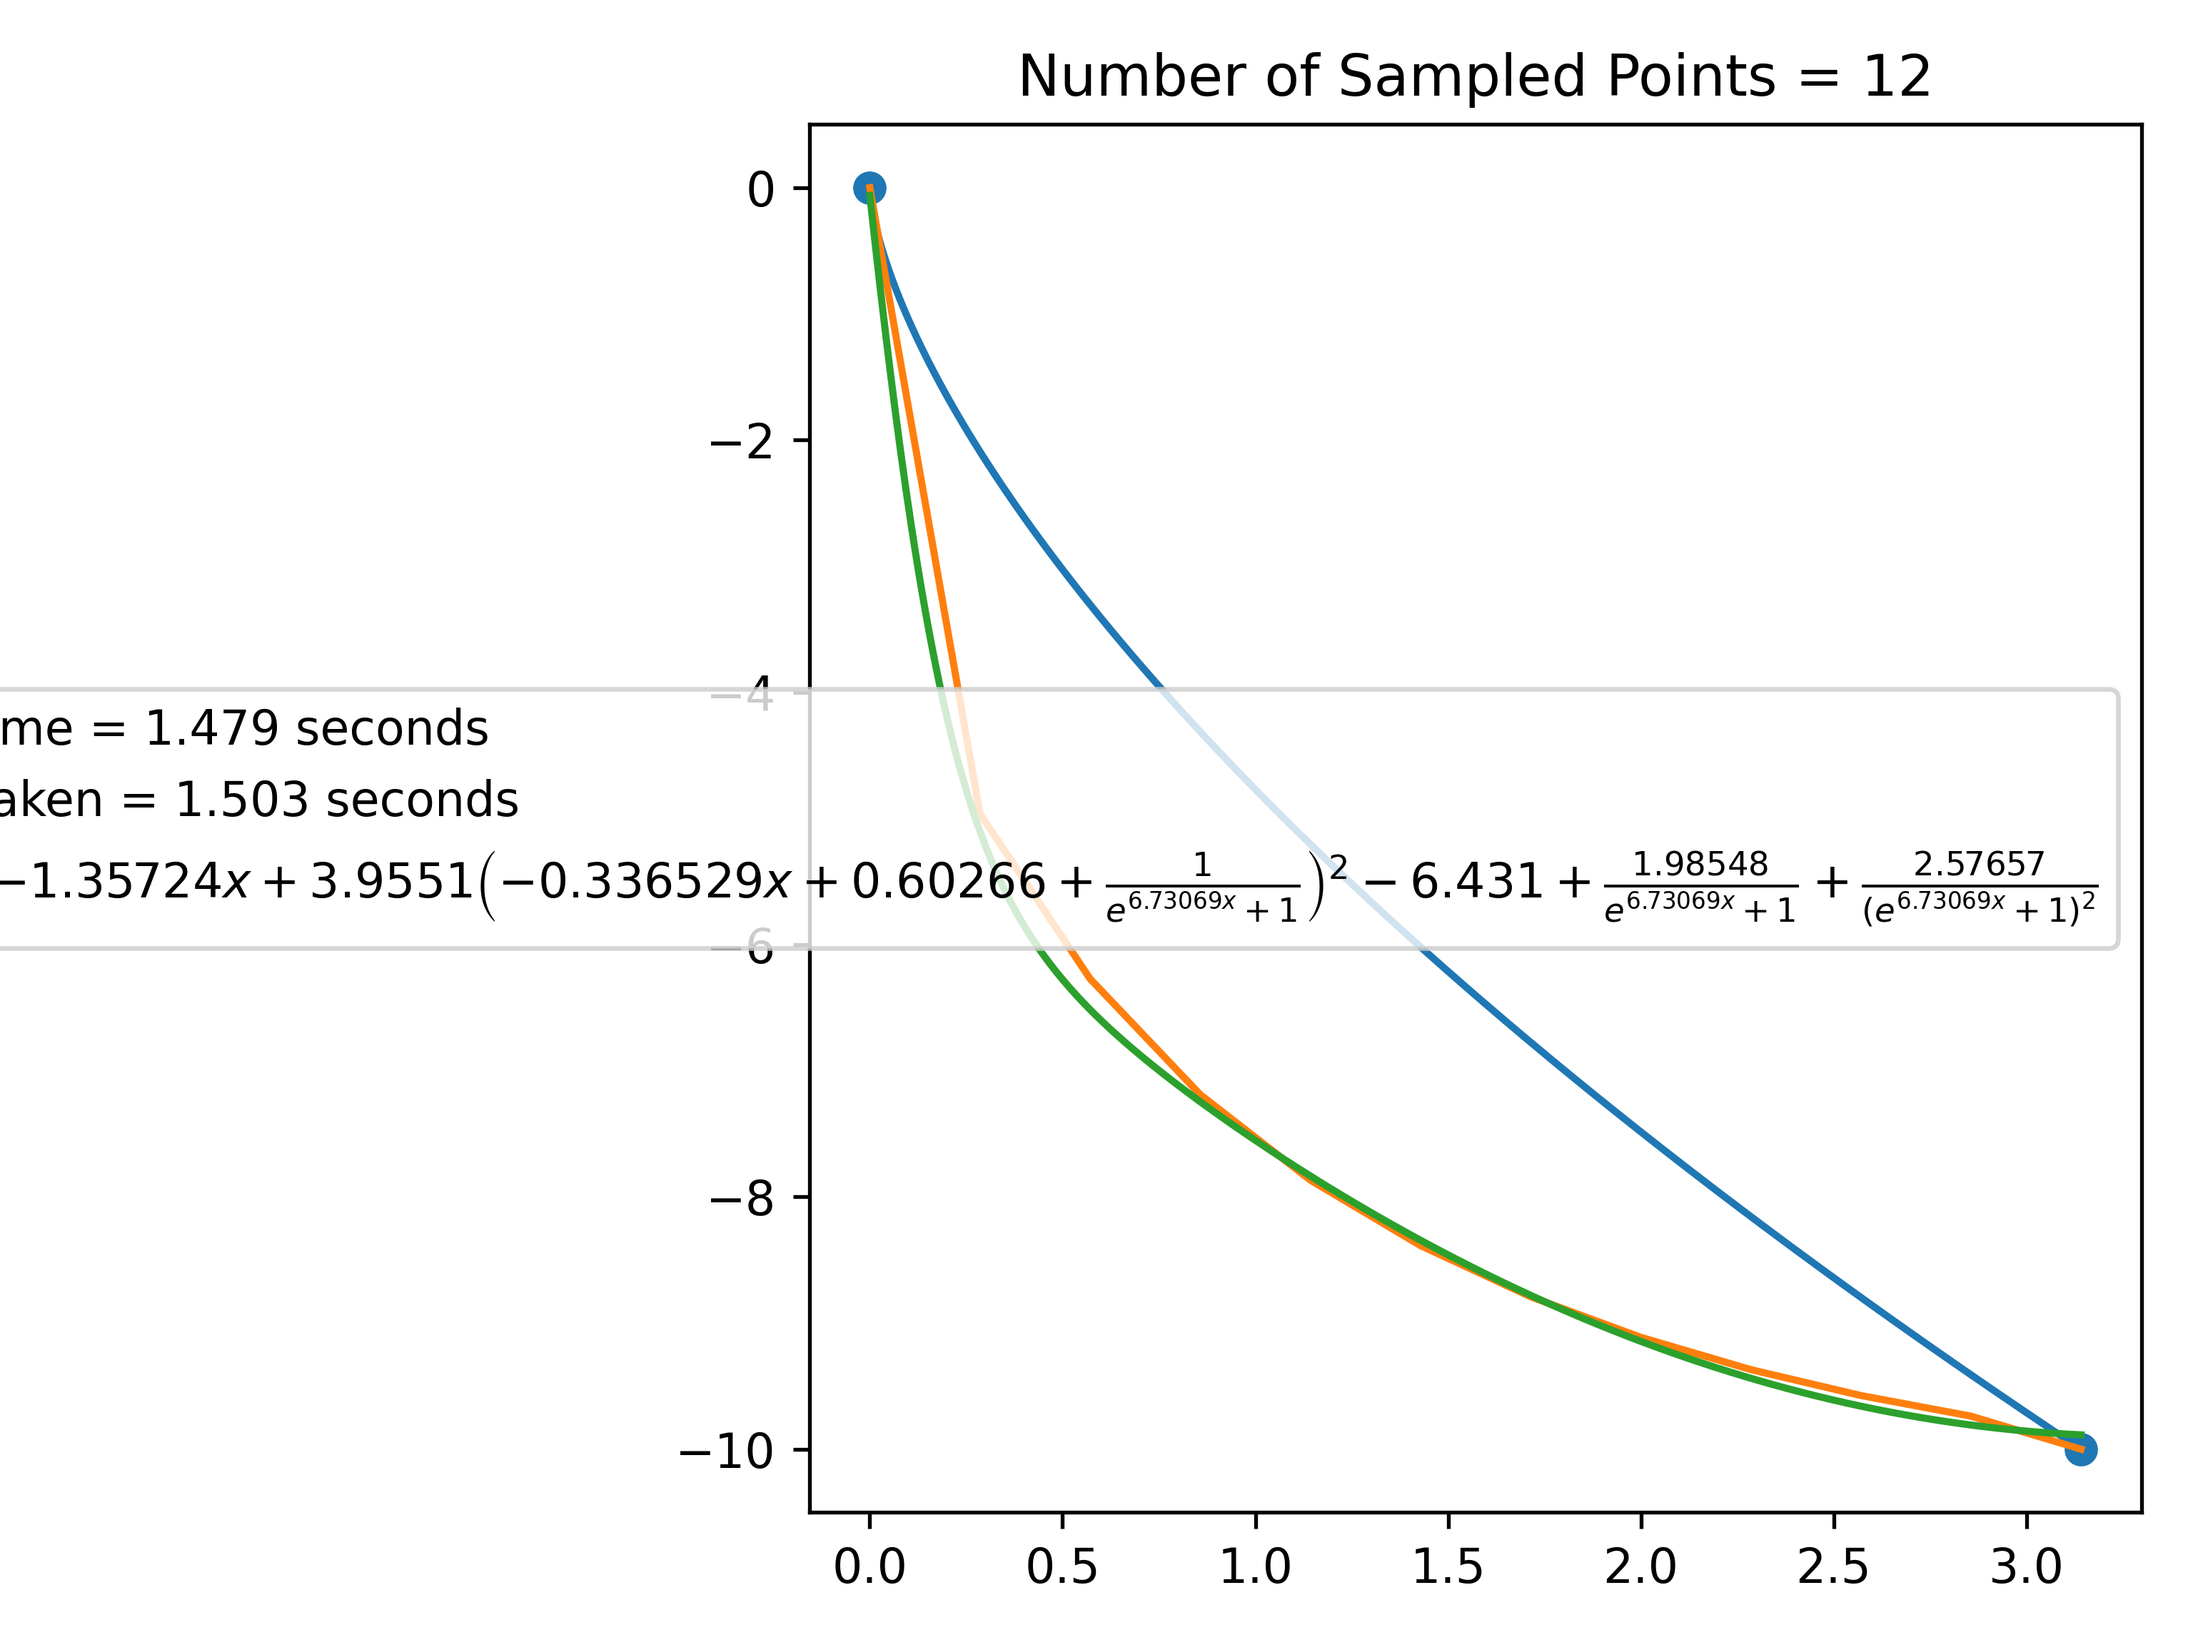
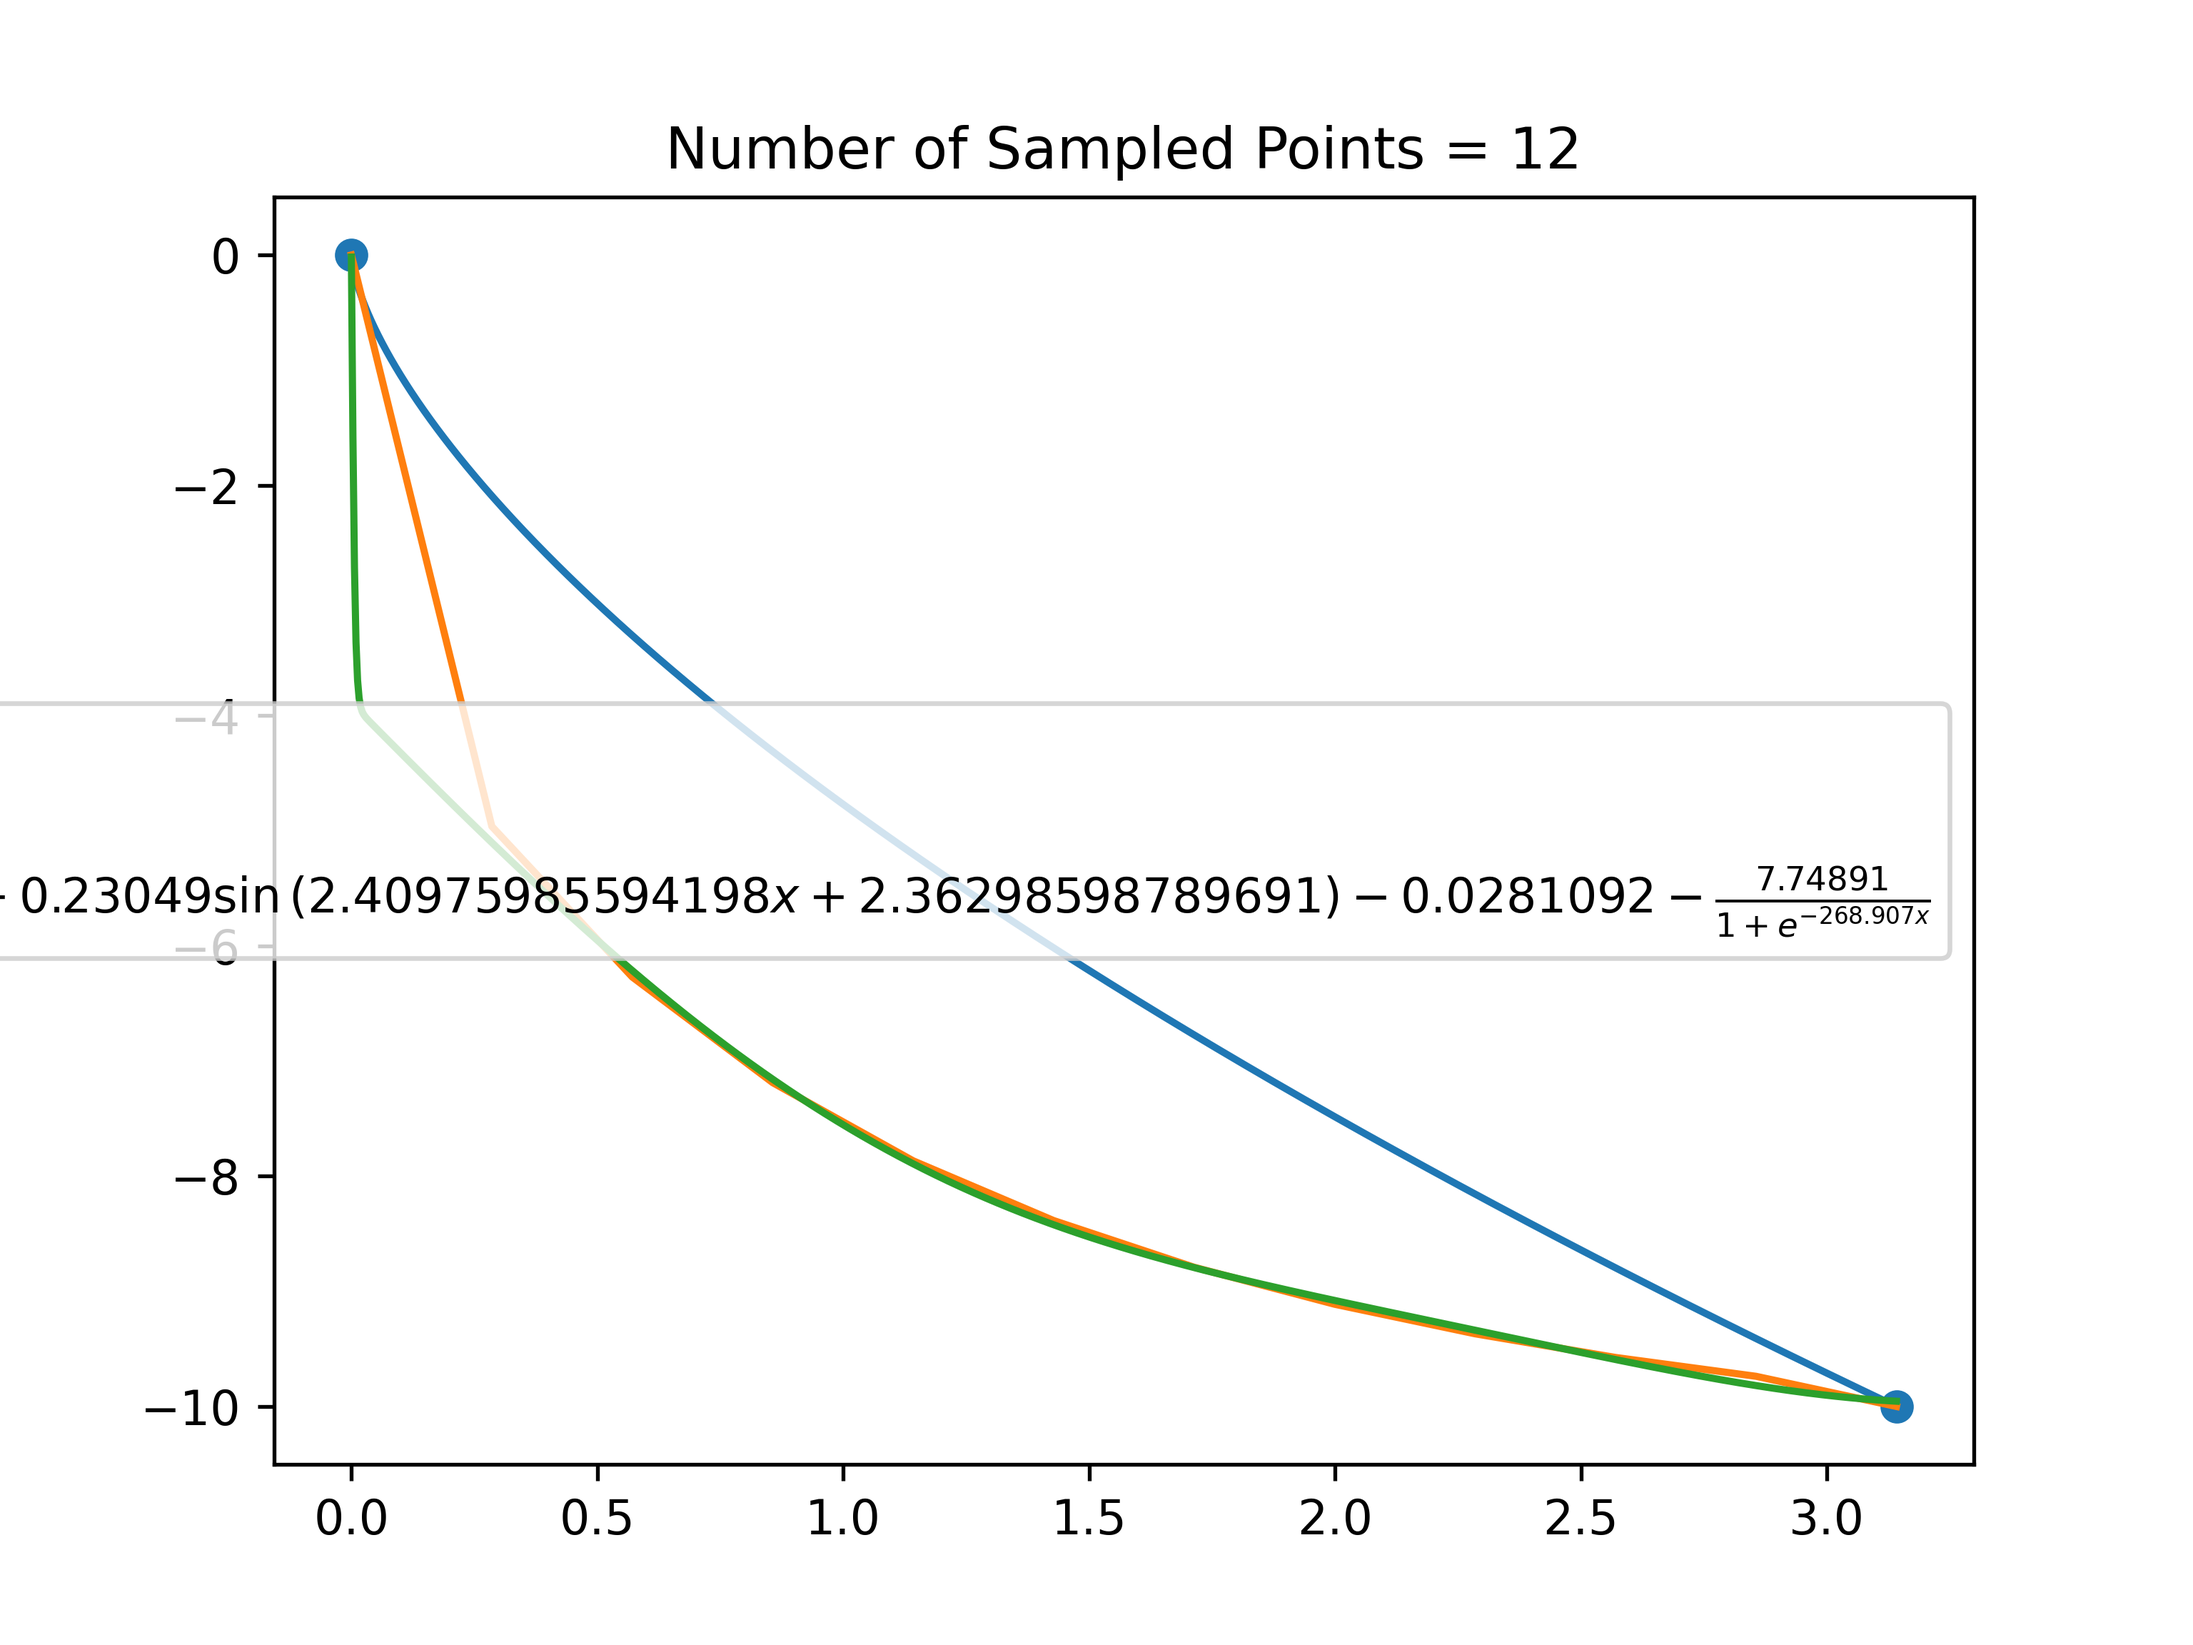
New best loss eql dsr

diff --git a/DeepSymbReg/utils_dsr/functions.py b/DeepSymbReg/utils_dsr/functions.py
@@ -7,7 +7,6 @@ import tensorflow as tf
 import numpy as np
 import sympy as sp
 
-
 class BaseFunction:
     """Abstract class for primitive functions"""
     def __init__(self, norm=1):
@@ -77,6 +76,7 @@ class Pow(BaseFunction):
 
 class Sin(BaseFunction):
     def sp(self, x):
+#        print("sp.sin(x * 2*2*np.pi) / self.norm =",sp.sin(x * 2*2*np.pi) / self.norm)
         return sp.sin(x * 2*2*np.pi) / self.norm
 
 class Cos(BaseFunction):
@@ -145,6 +145,7 @@ class Product(BaseFunction2):
         super().__init__(norm=norm)
 
     def sp(self, x, y):
+#        print("x,y,x*y:",x,y,x*y)
         return x*y / self.norm
 
 
@@ -176,26 +177,30 @@ class BaseFunctionN:
 
     def tf(self, X):
         """Automatically convert sympy to TensorFlow"""
-        A = sp.symbols('A')
+        A = sp.symbols(''.join([f'A{i}' for i in range(self.n)]))
         return sp.utilities.lambdify([A], self.sp(A), 'tensorflow')(X)
 
-    def np(self, X):
+    def np(self, A):
         """Automatically convert sympy to numpy"""
-        A = sp.symbols('A')
+        A = sp.symbols(''.join([f'A{i}' for i in range(self.n)]))
         return sp.utilities.lambdify([A], self.sp(A), 'numpy')(X)
 
     def name(self, X):
         return str(self.sp)
 
 class Laplacian(BaseFunctionN):
-    def __init__(self, norm=0.1):
+    def __init__(self, norm=1, n=1):
         super().__init__(norm=norm)
+        self.n = n
 
     def sp(self, X):
-        return sp.vector.laplacian(x) / self.norm
+
+        return np.gradient(np.gradient(X)) / self.norm
     
     def np(self, X):
-        return np.gradient(np.gradient(X))
+#        print("called:",X)
+
+        return np.gradient(np.gradient(X)) / self.norm
 
 def count_N(funcs):
     i = 0
@@ -216,7 +221,7 @@ Square(),
 Sin(),
 Sigmoid(),
 Product(),
-#Laplacian()
+#Laplacian(11)
 ]
 
 #default_func = [

diff --git a/DeepSymbReg/utils_dsr/symbolic_network.py b/DeepSymbReg/utils_dsr/symbolic_network.py
@@ -39,8 +39,8 @@ class SymbolicLayer:
         self.n_funcs = len(funcs)           # Number of activation functions (and number of layer outputs)
         self.funcs = [func.tf for func in funcs]        # Convert functions to list of Tensorflow functions
         self.n_double = functions.count_double(funcs)   # Number of activation functions that take 2 inputs
-        self.n_single = functions.count_single(funcs)    # Number of activation functions that take 1 input
-
+        self.n_single = functions.count_single(funcs)   # Number of activation functions that take 1 input
+        self.n_N = functions.count_N(funcs)             # Number of activation functions that take N inputs
         self.out_dim = self.n_funcs + self.n_double
 
     def build(self, in_dim):
@@ -248,9 +248,16 @@ class SymbolicLayerL0(SymbolicLayer):
                 in_i += 1
                 out_i += 1
             # Apply functions that take 2 inputs and produce 1 output
-            while out_i < self.n_funcs:
+            while out_i < self.n_single + self.n_double:
                 self.output.append(self.funcs[out_i](h[:, in_i], h[:, in_i+1]))
                 in_i += 2
+                out_i += 1
+            # Apply functions that take N inputs and produce 1 output
+            print(h)
+            while out_i < self.n_funcs:
+                
+                print(self.funcs[out_i](h))
+                self.output.append(self.funcs[out_i](h))
                 out_i += 1
             self.output = tf.stack(self.output, axis=1)
             return self.output

diff --git a/DeepSymbReg/RL_Brachistochrone_dsr.py b/DeepSymbReg/RL_Brachistochrone_dsr.py
@@ -727,7 +727,7 @@ if __name__ == '__main__':
                     best_model_selection = lambdify(x, expr)
                     print("New best expression:", best_expr)
         except KeyboardInterrupt:
-            if best_loss < 0.06550575070015369:
+            if best_loss < 0.0371831001264783:
                 y_points = best_model_selection(x_points)
                 if isinstance(y_points, float):
                     y_points = np.full_like(x_points, fill_value = y_points)

diff --git a/DeepSymbReg/test_poisson.py b/DeepSymbReg/test_poisson.py
@@ -10,6 +10,7 @@ from utils_dsr.regularization import l12_smooth
 
 
 funcs = functions.default_func
+print(funcs)
 x_dim = 1
 # Random data for a simple function
 x = np.random.rand(100, x_dim)
